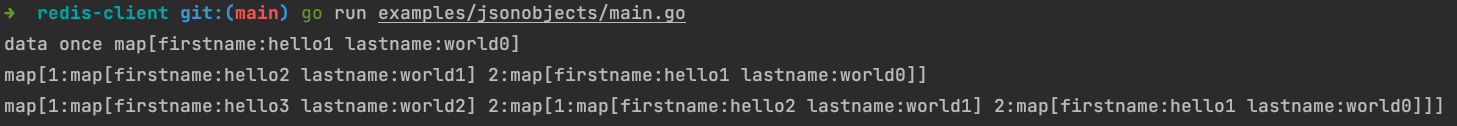
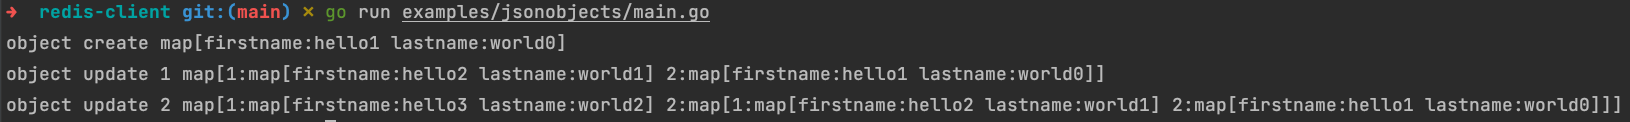
fixed examples

diff --git a/examples/jsonobjects/main.go b/examples/jsonobjects/main.go
@@ -31,11 +31,11 @@ func main()  {
 	if err != nil {
 		panic(err)
 	}
-	fmt.Println("data once", data)
+	fmt.Println("object create", data)
 	redis.Update(key, sample2)
 	data2, err := redis.Read(key)
-	fmt.Println(data2)
+	fmt.Println("object update 1", data2)
 	redis.Update(key, sample3)
 	data3, err := redis.Read(key)
-	fmt.Println(data3)
+	fmt.Println("object update 2", data3)
 }
